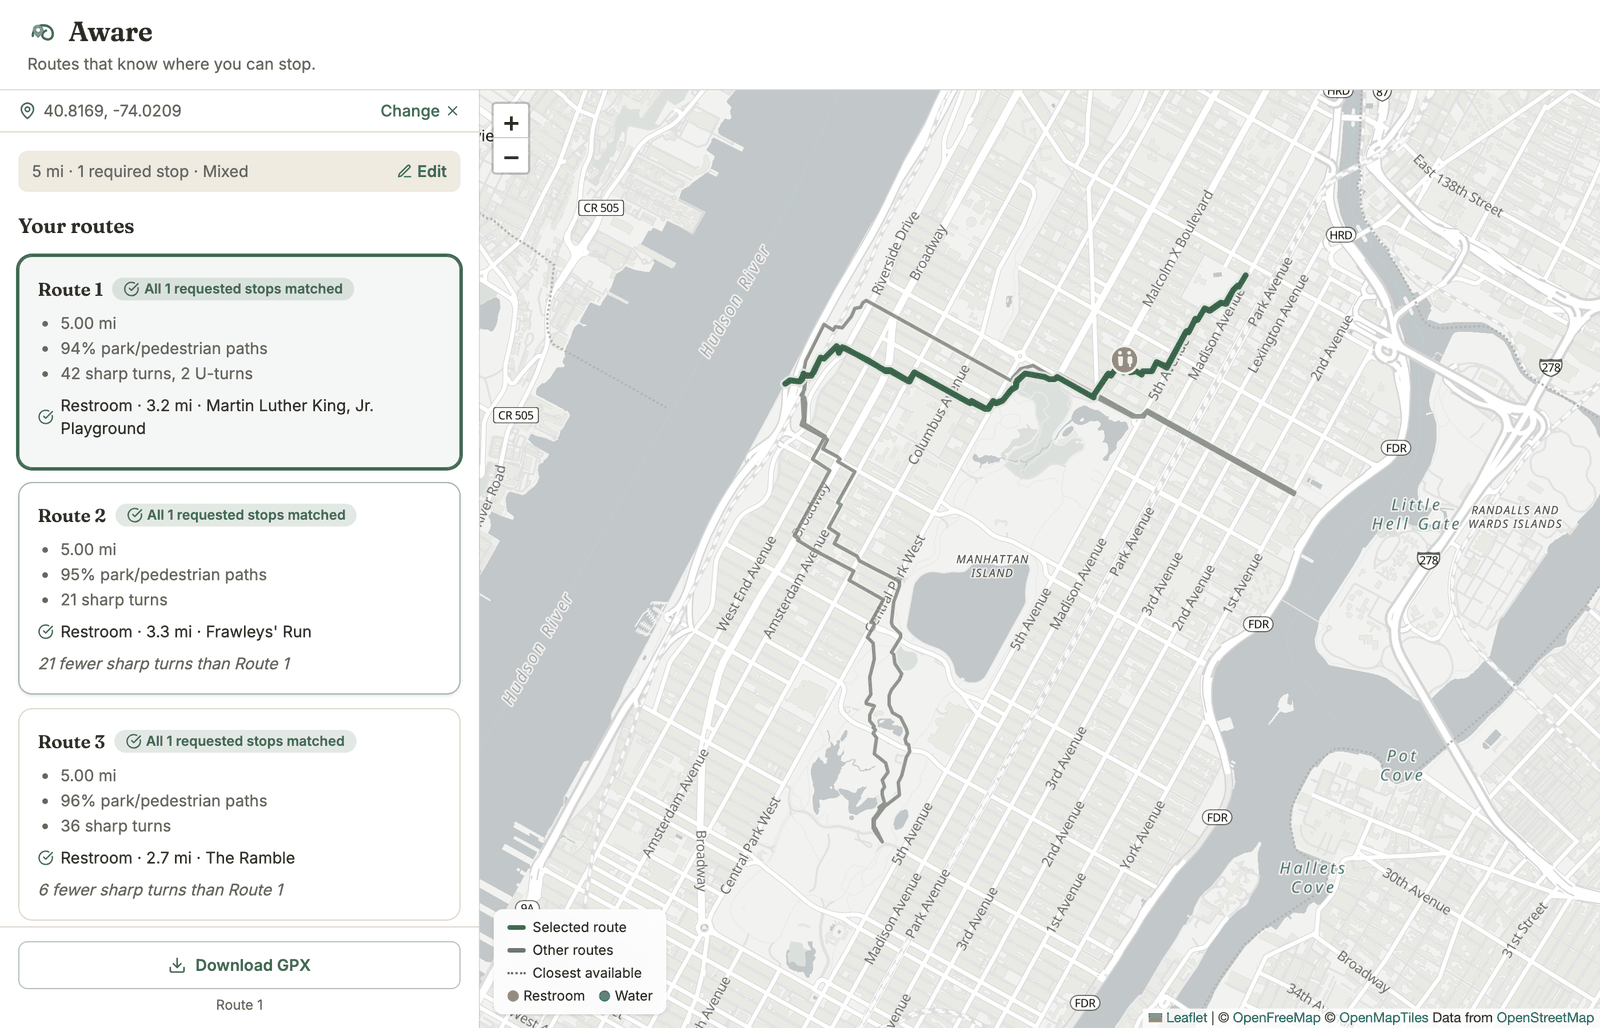
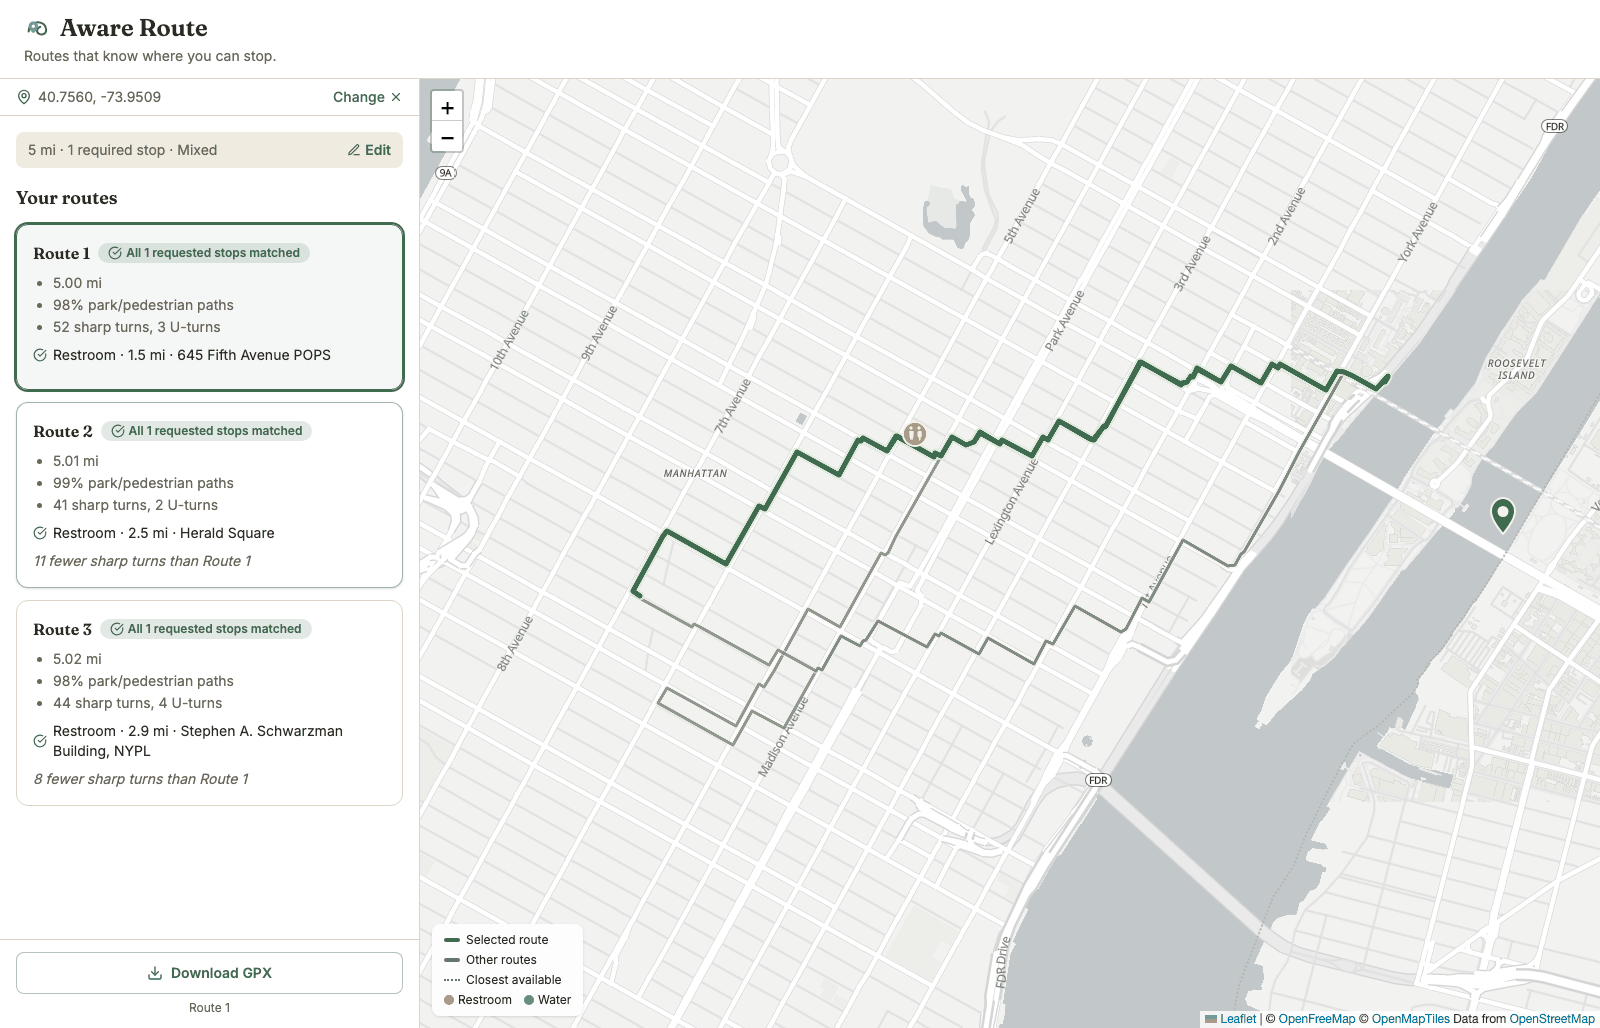
polish: finish live demo presentation (#24)
* polish: finish live demo presentation

Aligns visible branding to "Aware Route" (header + browser title),
adds a meta description and static Open Graph tags for link previews,
and bumps one 38px touch target to 44px. Frontend presentation only —
no routing/backend behavior changes.

* docs: refresh README screenshot for Aware Route branding

Recaptured the hero screenshot from the PR preview now that the header
reads "Aware Route" instead of "Aware". Updated the alt text to match
the new screenshot's matched restroom stop, which is on the Upper East
Side rather than in Central Park.

* docs: fix inaccurate neighborhood claim in screenshot alt text

Adversarial review caught that "Upper East Side" was wrong -- the
screenshot's matched restroom facility (645 Fifth Avenue POPS) is in
Midtown. Drop the neighborhood claim rather than guess again.

diff --git a/frontend/index.html b/frontend/index.html
@@ -4,13 +4,25 @@
     <meta charset="UTF-8" />
     <link rel="icon" type="image/svg+xml" href="/favicon.svg" />
     <meta name="viewport" content="width=device-width, initial-scale=1.0" />
+    <meta name="theme-color" content="#ffffff" />
+    <meta
+      name="description"
+      content="Aware Route generates running routes in Manhattan tailored to your target distance, preferred shape, and restroom or water stop requirements."
+    />
+    <meta property="og:title" content="Aware Route — Facility-Aware Running Routes" />
+    <meta
+      property="og:description"
+      content="Generate Manhattan running routes around your target distance, route shape, and restroom or water stops."
+    />
+    <meta property="og:type" content="website" />
+    <meta property="og:url" content="https://aware-route-ashen.vercel.app" />
     <link rel="preconnect" href="https://fonts.googleapis.com" />
     <link rel="preconnect" href="https://fonts.gstatic.com" crossorigin />
     <link
       href="https://fonts.googleapis.com/css2?family=Fraunces:opsz,wght@9..144,500;9..144,600&family=Inter:wght@400;500;600&display=swap"
       rel="stylesheet"
     />
-    <title>Aware — facility-aware running routes</title>
+    <title>Aware Route — Facility-Aware Running Routes</title>
   </head>
   <body>
     <div id="root"></div>

diff --git a/frontend/src/components/RouteForm.tsx b/frontend/src/components/RouteForm.tsx
@@ -264,7 +264,7 @@ export default function RouteForm({
                 type="button"
                 onClick={() => handleRemoveRequirement(requirement.id)}
                 aria-label={`Remove ${kindLabel} stop ${index + 1}`}
-                className="inline-flex h-[38px] w-[38px] items-center justify-center rounded-lg border border-border text-ink-muted transition-colors hover:border-danger/50 hover:text-danger focus-visible:outline-none focus-visible:ring-2 focus-visible:ring-primary/40"
+                className="inline-flex h-11 w-11 items-center justify-center rounded-lg border border-border text-ink-muted transition-colors hover:border-danger/50 hover:text-danger focus-visible:outline-none focus-visible:ring-2 focus-visible:ring-primary/40"
               >
                 <X className="h-4 w-4" />
               </button>

diff --git a/frontend/src/App.tsx b/frontend/src/App.tsx
@@ -394,7 +394,7 @@ function App() {
         <div className="flex items-center gap-2">
           <AwareMark className="h-7 w-7" />
           <h1 className="font-display text-2xl font-semibold text-ink">
-            Aware
+            Aware Route
           </h1>
         </div>
         <p className="mt-0.5 hidden text-sm text-ink-muted sm:block">

diff --git a/README.md b/README.md
@@ -4,7 +4,7 @@ A Manhattan running-route planner that treats restroom and water stops as hard r
 
 **[Live demo →](https://aware-route-ashen.vercel.app)**
 
-![Aware Route showing three ranked route alternatives with a matched restroom stop in Central Park](docs/assets/aware-route-demo.png)
+![Aware Route showing three ranked route alternatives with a matched restroom stop](docs/assets/aware-route-demo.png)
 
 Runners planning a longer route usually cross-reference a map, a facility locator, and a distance estimate by hand. Aware Route folds all three into one request — "5 miles, a restroom around mile 2-4, water around mile 6-8" — and returns several ranked routes that are actually built around those stops, not just filtered for them afterward.
 
